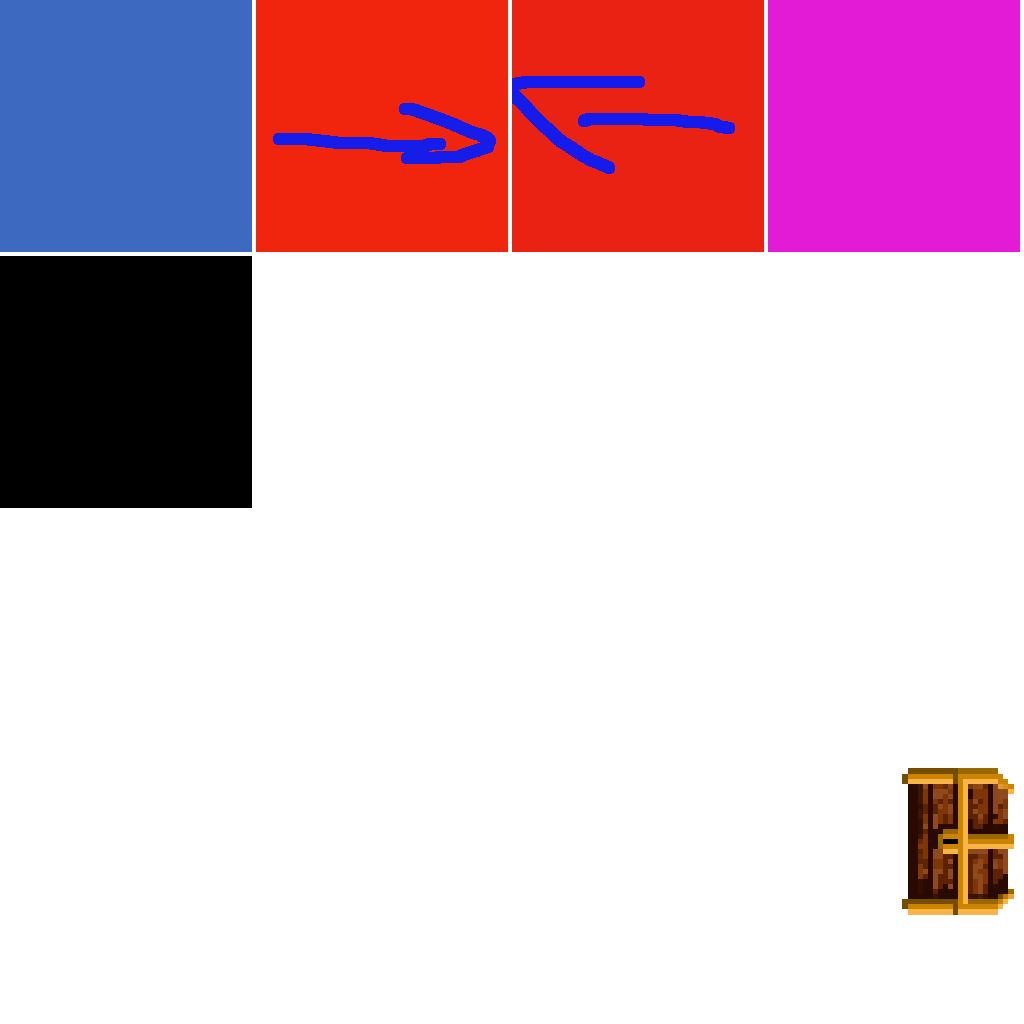
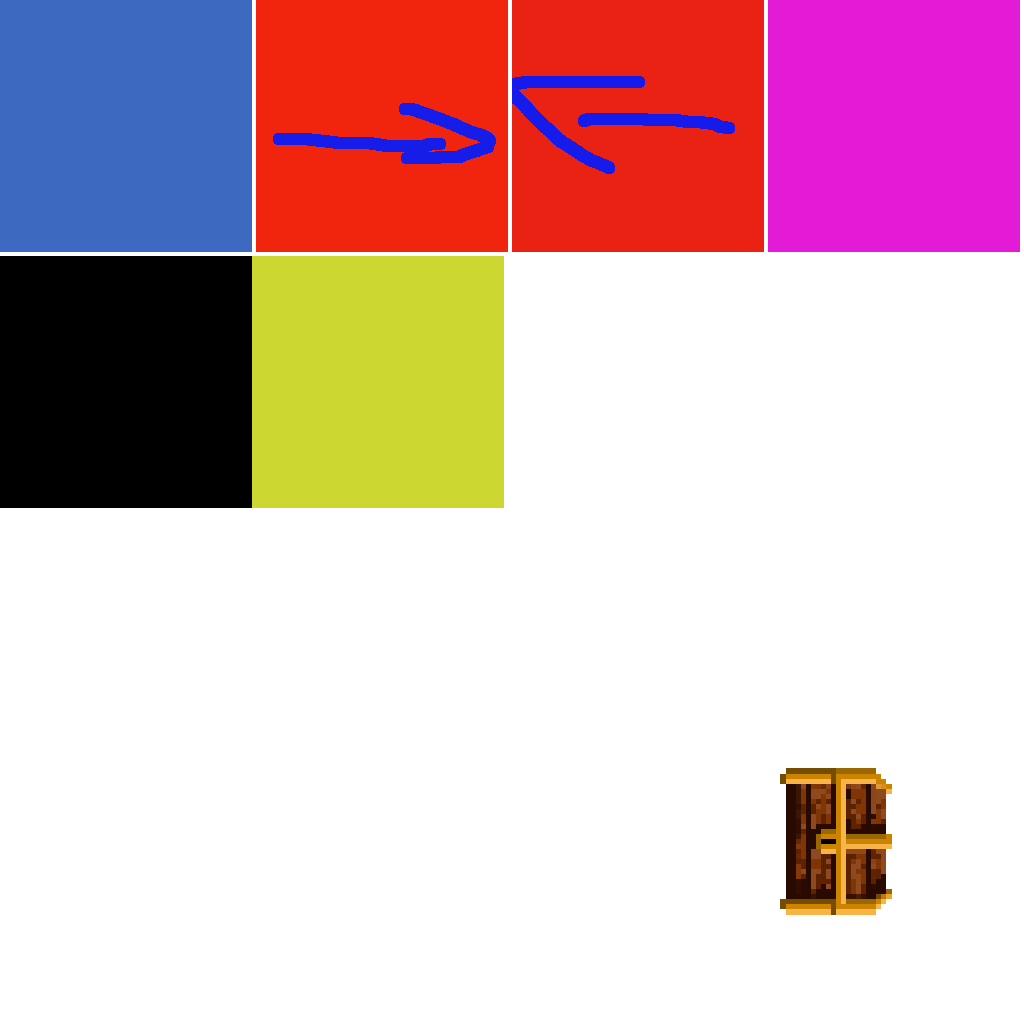
commit 006
Atualizações no jogo

Changed region(s): [[0.2188, 0.25, 0.5, 0.5], [0.75, 0.75, 1.0, 0.9062]]

diff --git a/Jogo/scripts/objRefTable.js b/Jogo/scripts/objRefTable.js
@@ -103,6 +103,7 @@ self.C3_JsPropNameTable = [
 	{PorcoHistoria: 0},
 	{Princesa: 0},
 	{Voltar: 0},
+	{SensorChefao: 0},
 	{Vidas: 0}
 ];
 
@@ -144,5 +145,6 @@ self.InstanceType = {
 	Sprite2: class extends self.ISpriteInstance {},
 	PorcoHistoria: class extends self.ISpriteInstance {},
 	Princesa: class extends self.ISpriteInstance {},
-	Voltar: class extends self.ISpriteFontInstance {}
+	Voltar: class extends self.ISpriteFontInstance {},
+	SensorChefao: class extends self.ISpriteInstance {}
 }
